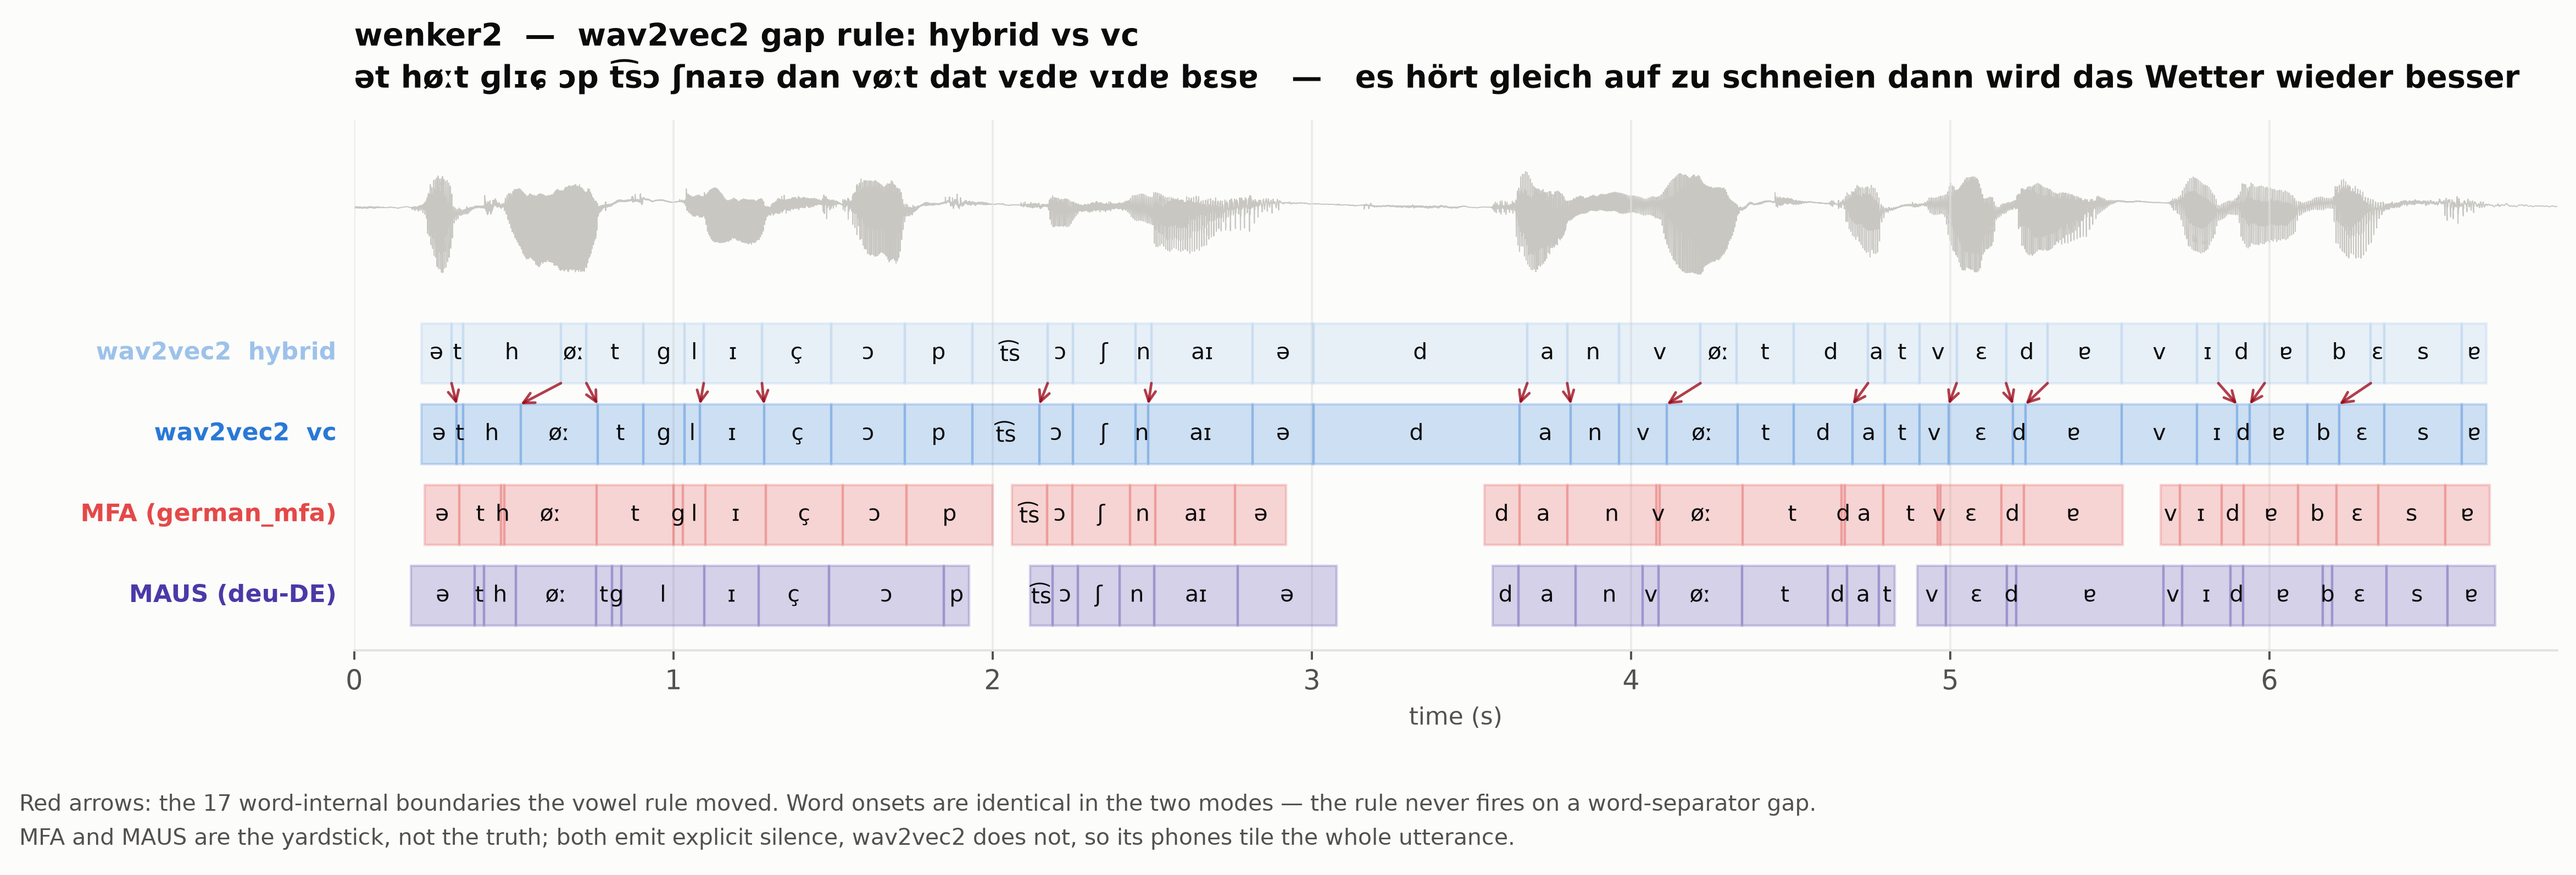
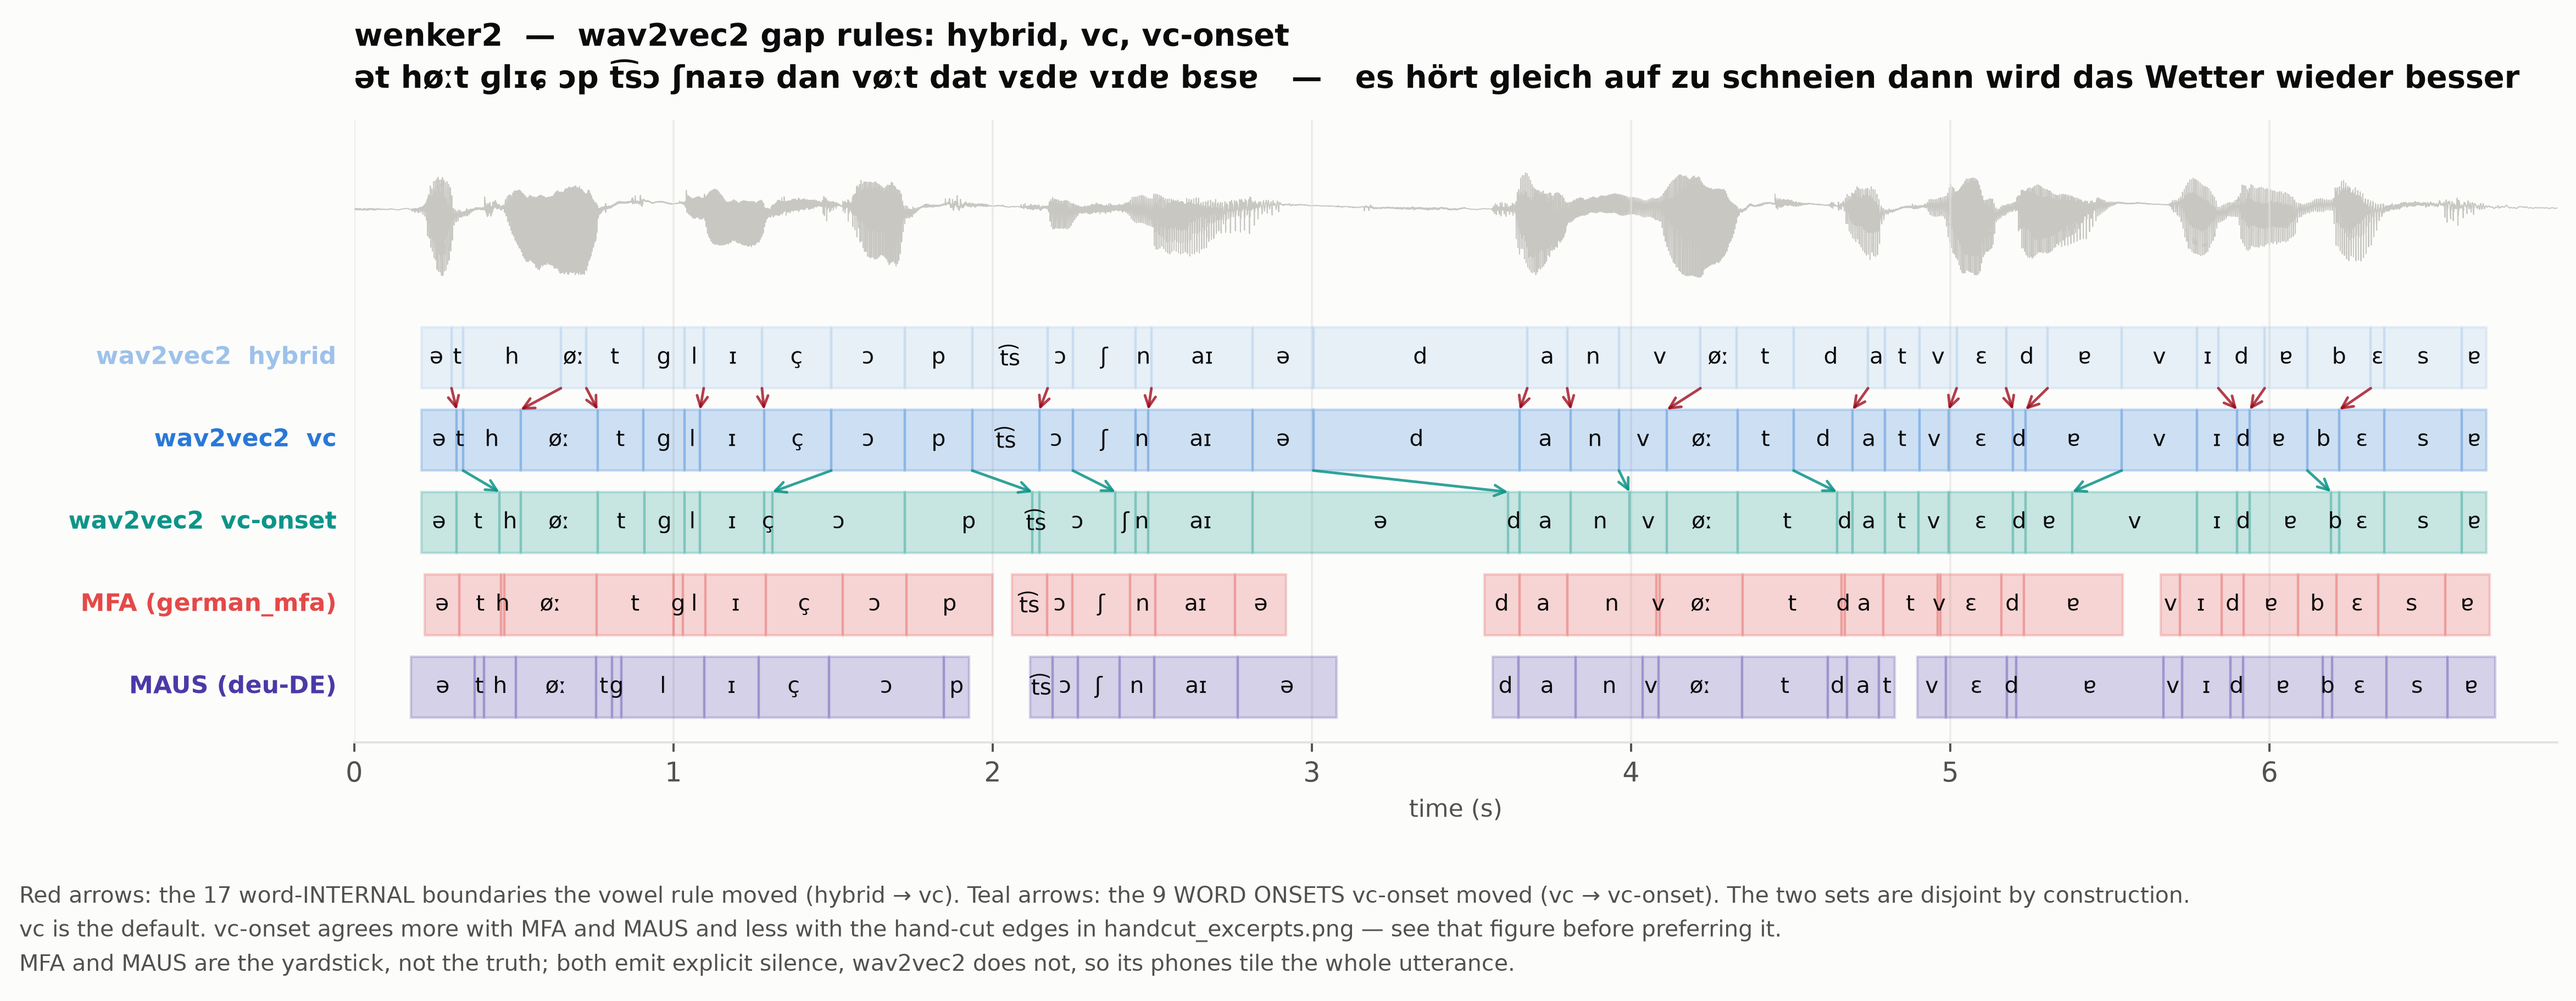
Replot every figure with vc-onset in it
The previous pass only rebuilt handcut_excerpts.png, so why_the_consonants_grew
and vc_vs_hybrid still showed a world with two gap rules in it. Both now show
three.

  why_the_consonants_grew.png  panel 3 gains a vc-onset boundary line and the
                               duration table a vc-onset column. /h/ reads
                               306 (hybrid) / 181 (vc) / 67 (vc-onset) against
                               MFA 10 and MAUS 100. The panel-3 line lands on
                               top of vc's, which is correct and worth seeing:
                               that boundary is word-INTERNAL, so vc-onset does
                               not touch it.

  vc_vs_hybrid_*.png           gains a vc-onset row and a second arrow colour.
                               Red = the 17 word-internal boundaries vc moves,
                               teal = the 9 word onsets vc-onset moves. Disjoint
                               by construction, and the picture now shows that
                               rather than asserting it.

three_systems_vc_*.png is deliberately left at three rows: its job is three
ALIGNERS on one chain, and the wav2vec2 row is the recommended default, which is
still vc. Adding a fourth wav2vec2 row would answer a different question.

Both new figure footnotes point at handcut_excerpts.png, so nobody reads the
MFA/MAUS win for vc-onset without meeting the human-boundary loss.

diff --git a/README.md b/README.md
@@ -142,8 +142,12 @@ kept 42.
 
 ![what vc changes](docs/figures/vc_vs_hybrid.png)
 
-Red arrows mark every internal boundary that moved. **Word onsets are untouched
-by construction**, so cross-system comparisons stay valid.
+All three wav2vec2 gap rules on one chain. **Red arrows** are the 17
+word-**internal** boundaries `vc` moves (from `hybrid`); **teal arrows** are the
+9 **word onsets** `vc-onset` moves (from `vc`). The two sets are disjoint by
+construction — `vc` never fires on a word-separator gap, and `vc-onset` fires
+only there. So in `vc`, **word onsets are untouched** and cross-system
+comparisons stay valid.
 
 ### What `vc` does not fix
 
